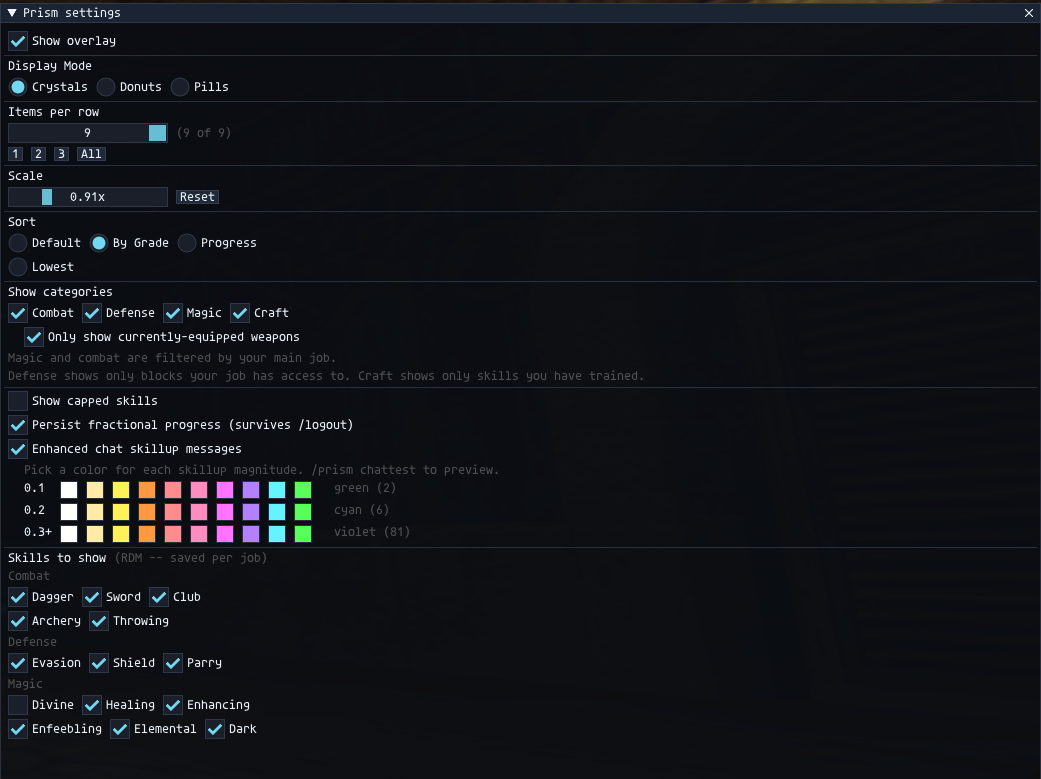
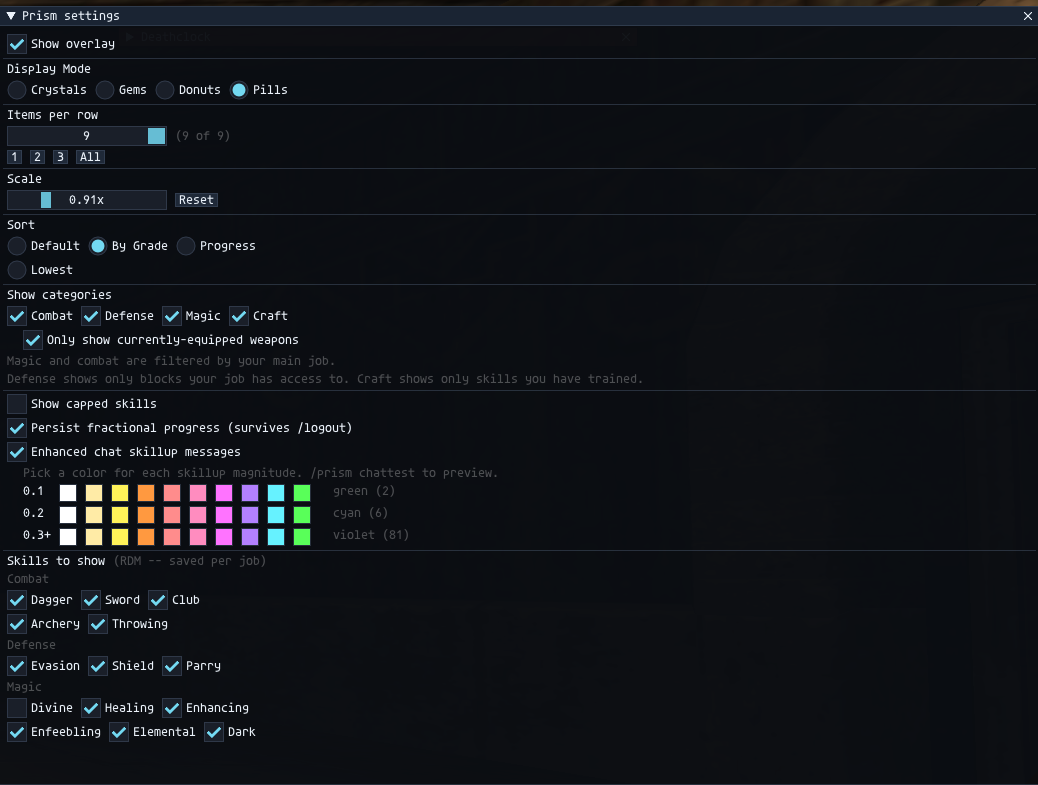
docs: add gems-rdm + refresh donuts/pills/settings screenshots
Display modes table is now 4-wide (Crystals / Gems / Donuts / Pills),
all RDM lv11 captures so they're visually consistent. Hero image moved
to overlay-rdm.png. Old crystals.png/donuts.png/pills.png stay in
assets for back-compat but are no longer referenced.

diff --git a/README.md b/README.md
@@ -1,22 +1,20 @@
 # Prism
 
-A floating skill overlay for **FFXI** (Ashita v4). Shows every skill your main job has access to — combat, defense, magic, and crafting — with tier-colored crystals, donuts, or pills, plus effective level and minimum mob level hints so you know what to hunt next.
+A floating skill overlay for **FFXI** (Ashita v4). Shows every skill your main job has access to — combat, defense, magic, and crafting — with tier-colored crystals, gems, donuts, or pills, plus effective level and minimum mob level hints so you know what to hunt next.
 
-![Prism crystals](assets/crystals.png)
+![Prism overlay on RDM — all four categories](assets/overlay-rdm.png)
 
 ## Display modes
 
-| Crystals (default) | Donuts | Pills |
-|---|---|---|
-| ![Crystals](assets/crystals.png) | ![Donuts](assets/donuts.png) | ![Pills](assets/pills.png) |
+| Crystals (default) | Gems | Donuts | Pills |
+|---|---|---|---|
+| ![Crystals](assets/overlay-rdm.png) | ![Gems](assets/gems-rdm.png) | ![Donuts](assets/donuts-rdm.png) | ![Pills](assets/pills-rdm.png) |
 
-Tier color encodes rank: **A+ gold**, **B green**, **C cyan**, **D blue**, **E/F grey**.
+Switch with the radio row in `/prism settings` or `/prism mode crystals|gems|donuts|pills`. Tier color encodes rank: **A+ gold**, **B green**, **C cyan**, **D blue**, **E/F grey**.
 
 ## All skills, four categories
 
 Prism groups every skill your main job can train into four toggleable categories. Equipped weapons sort first, then combat → defense → magic → craft.
-
-![Prism overlay on RDM — all four categories](assets/overlay-rdm.png)
 
 ### `/prism diag` — calibration view
 